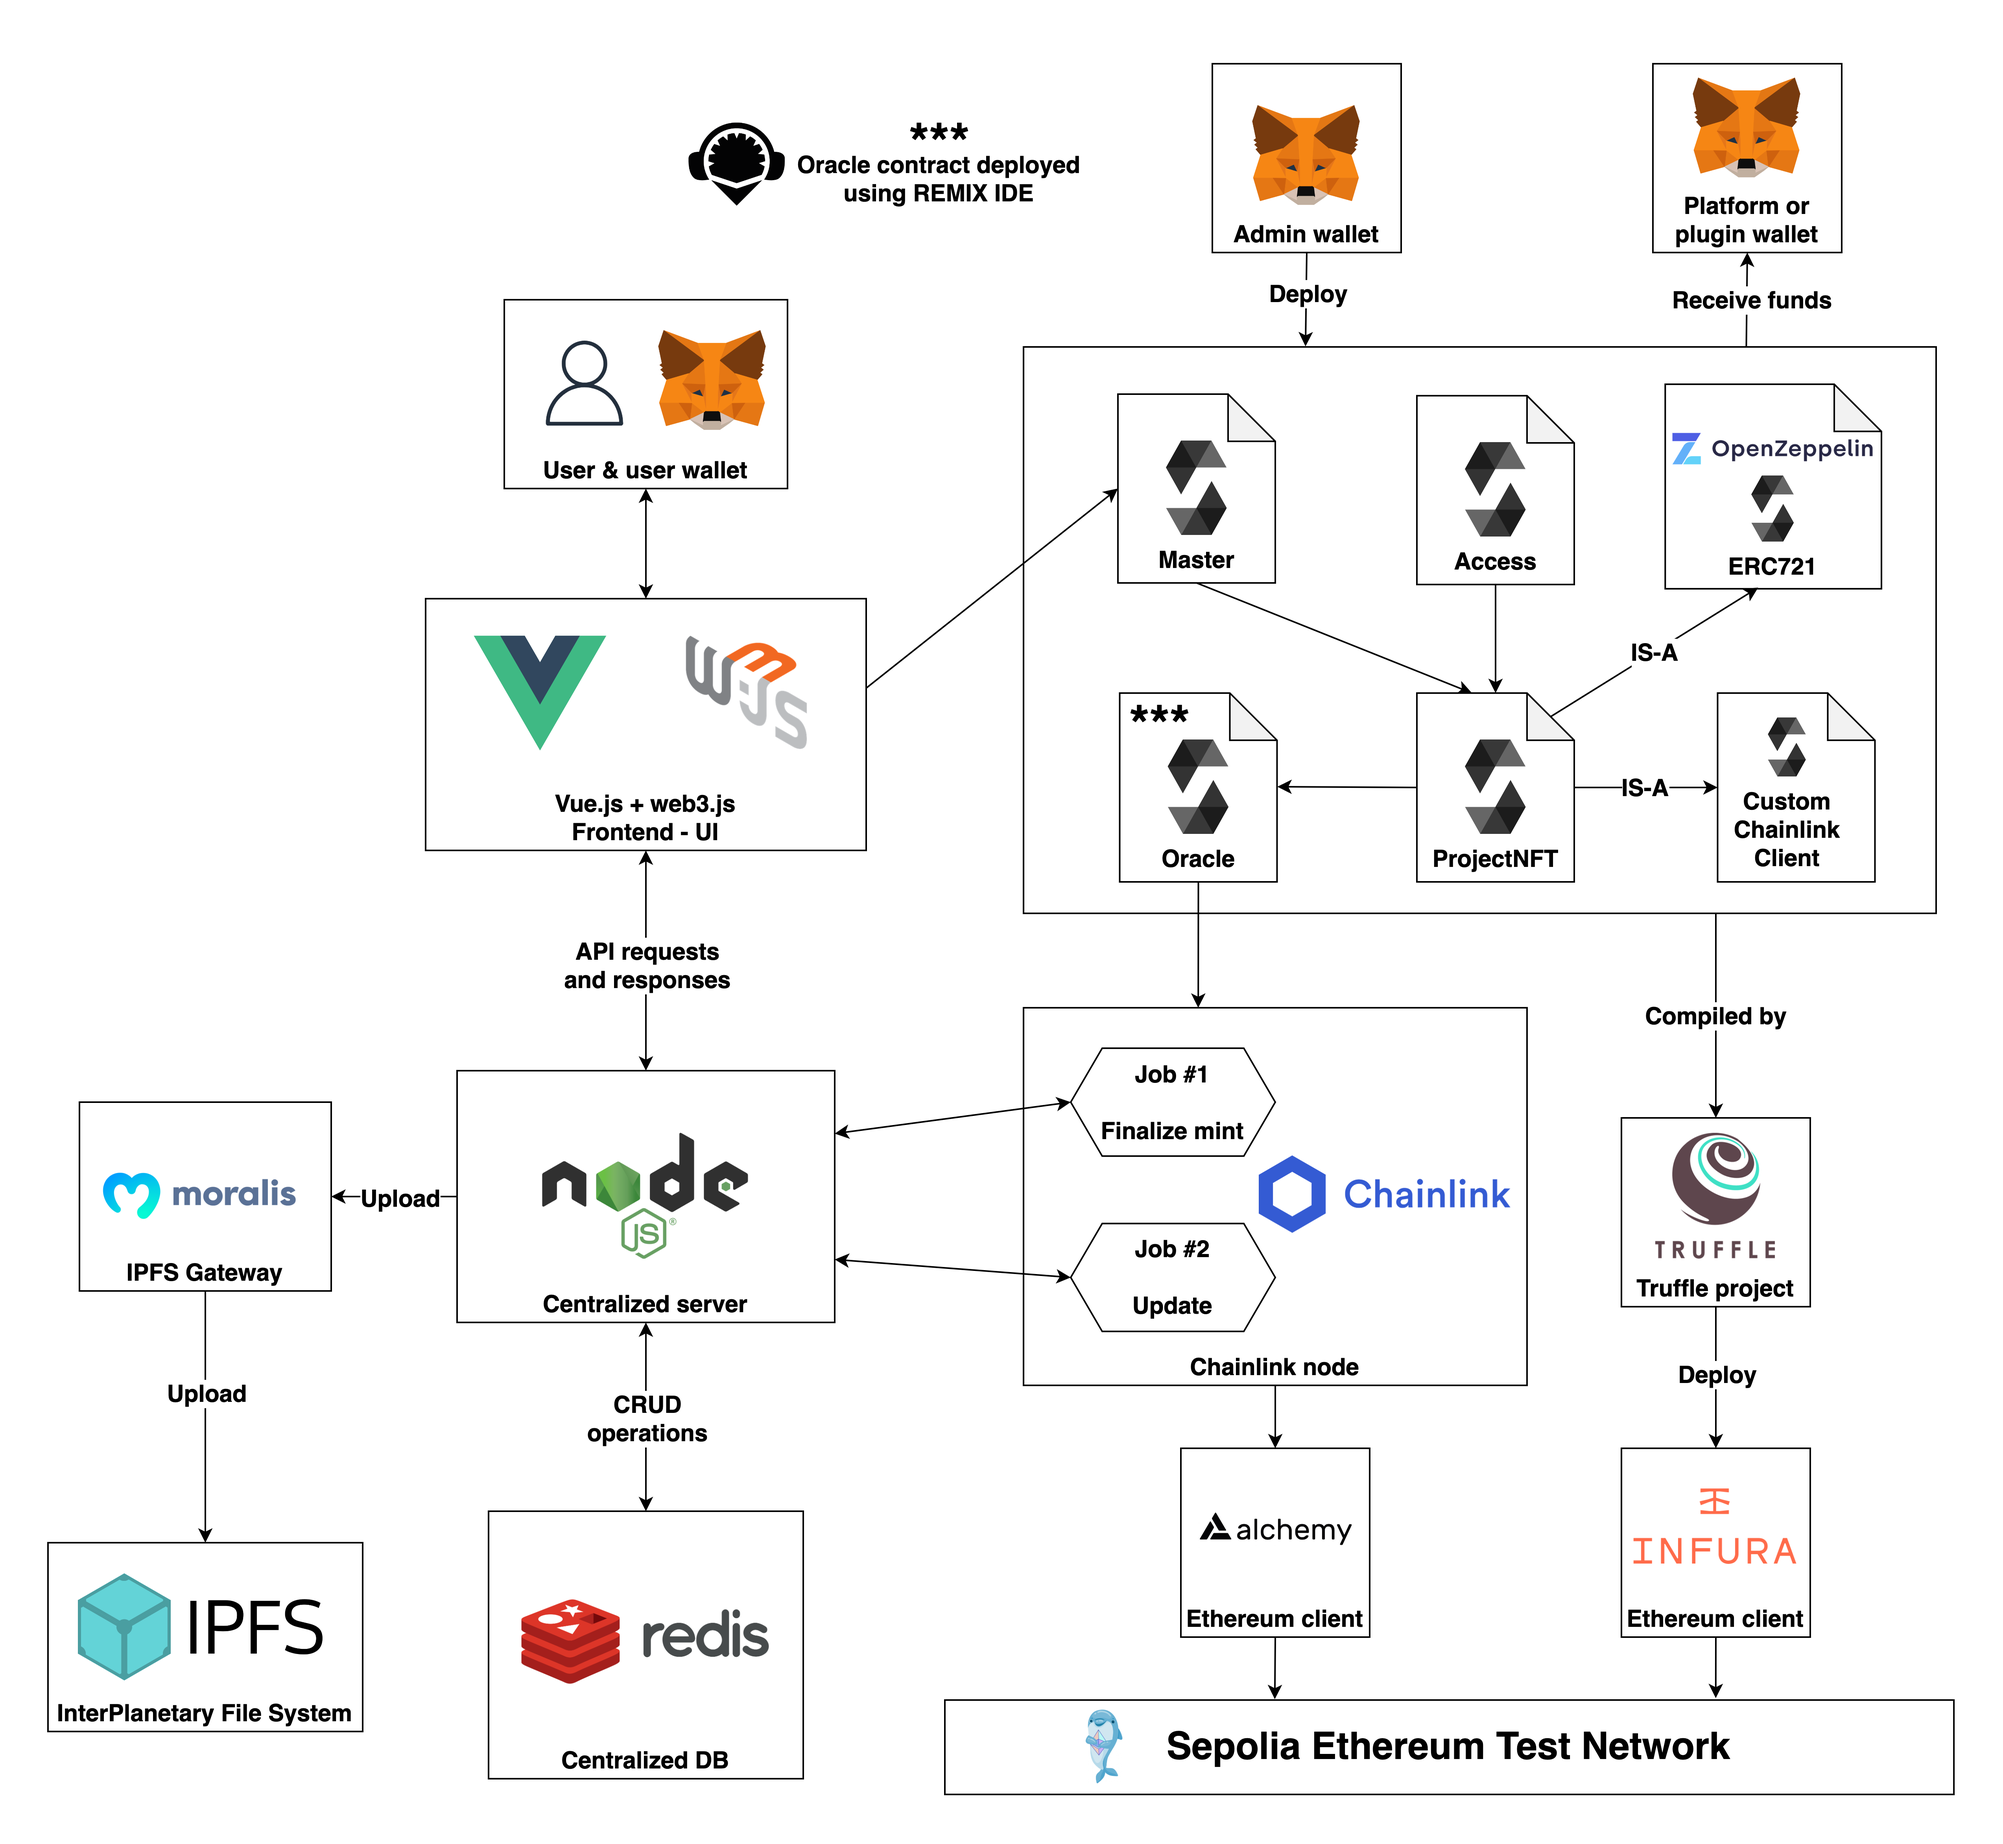
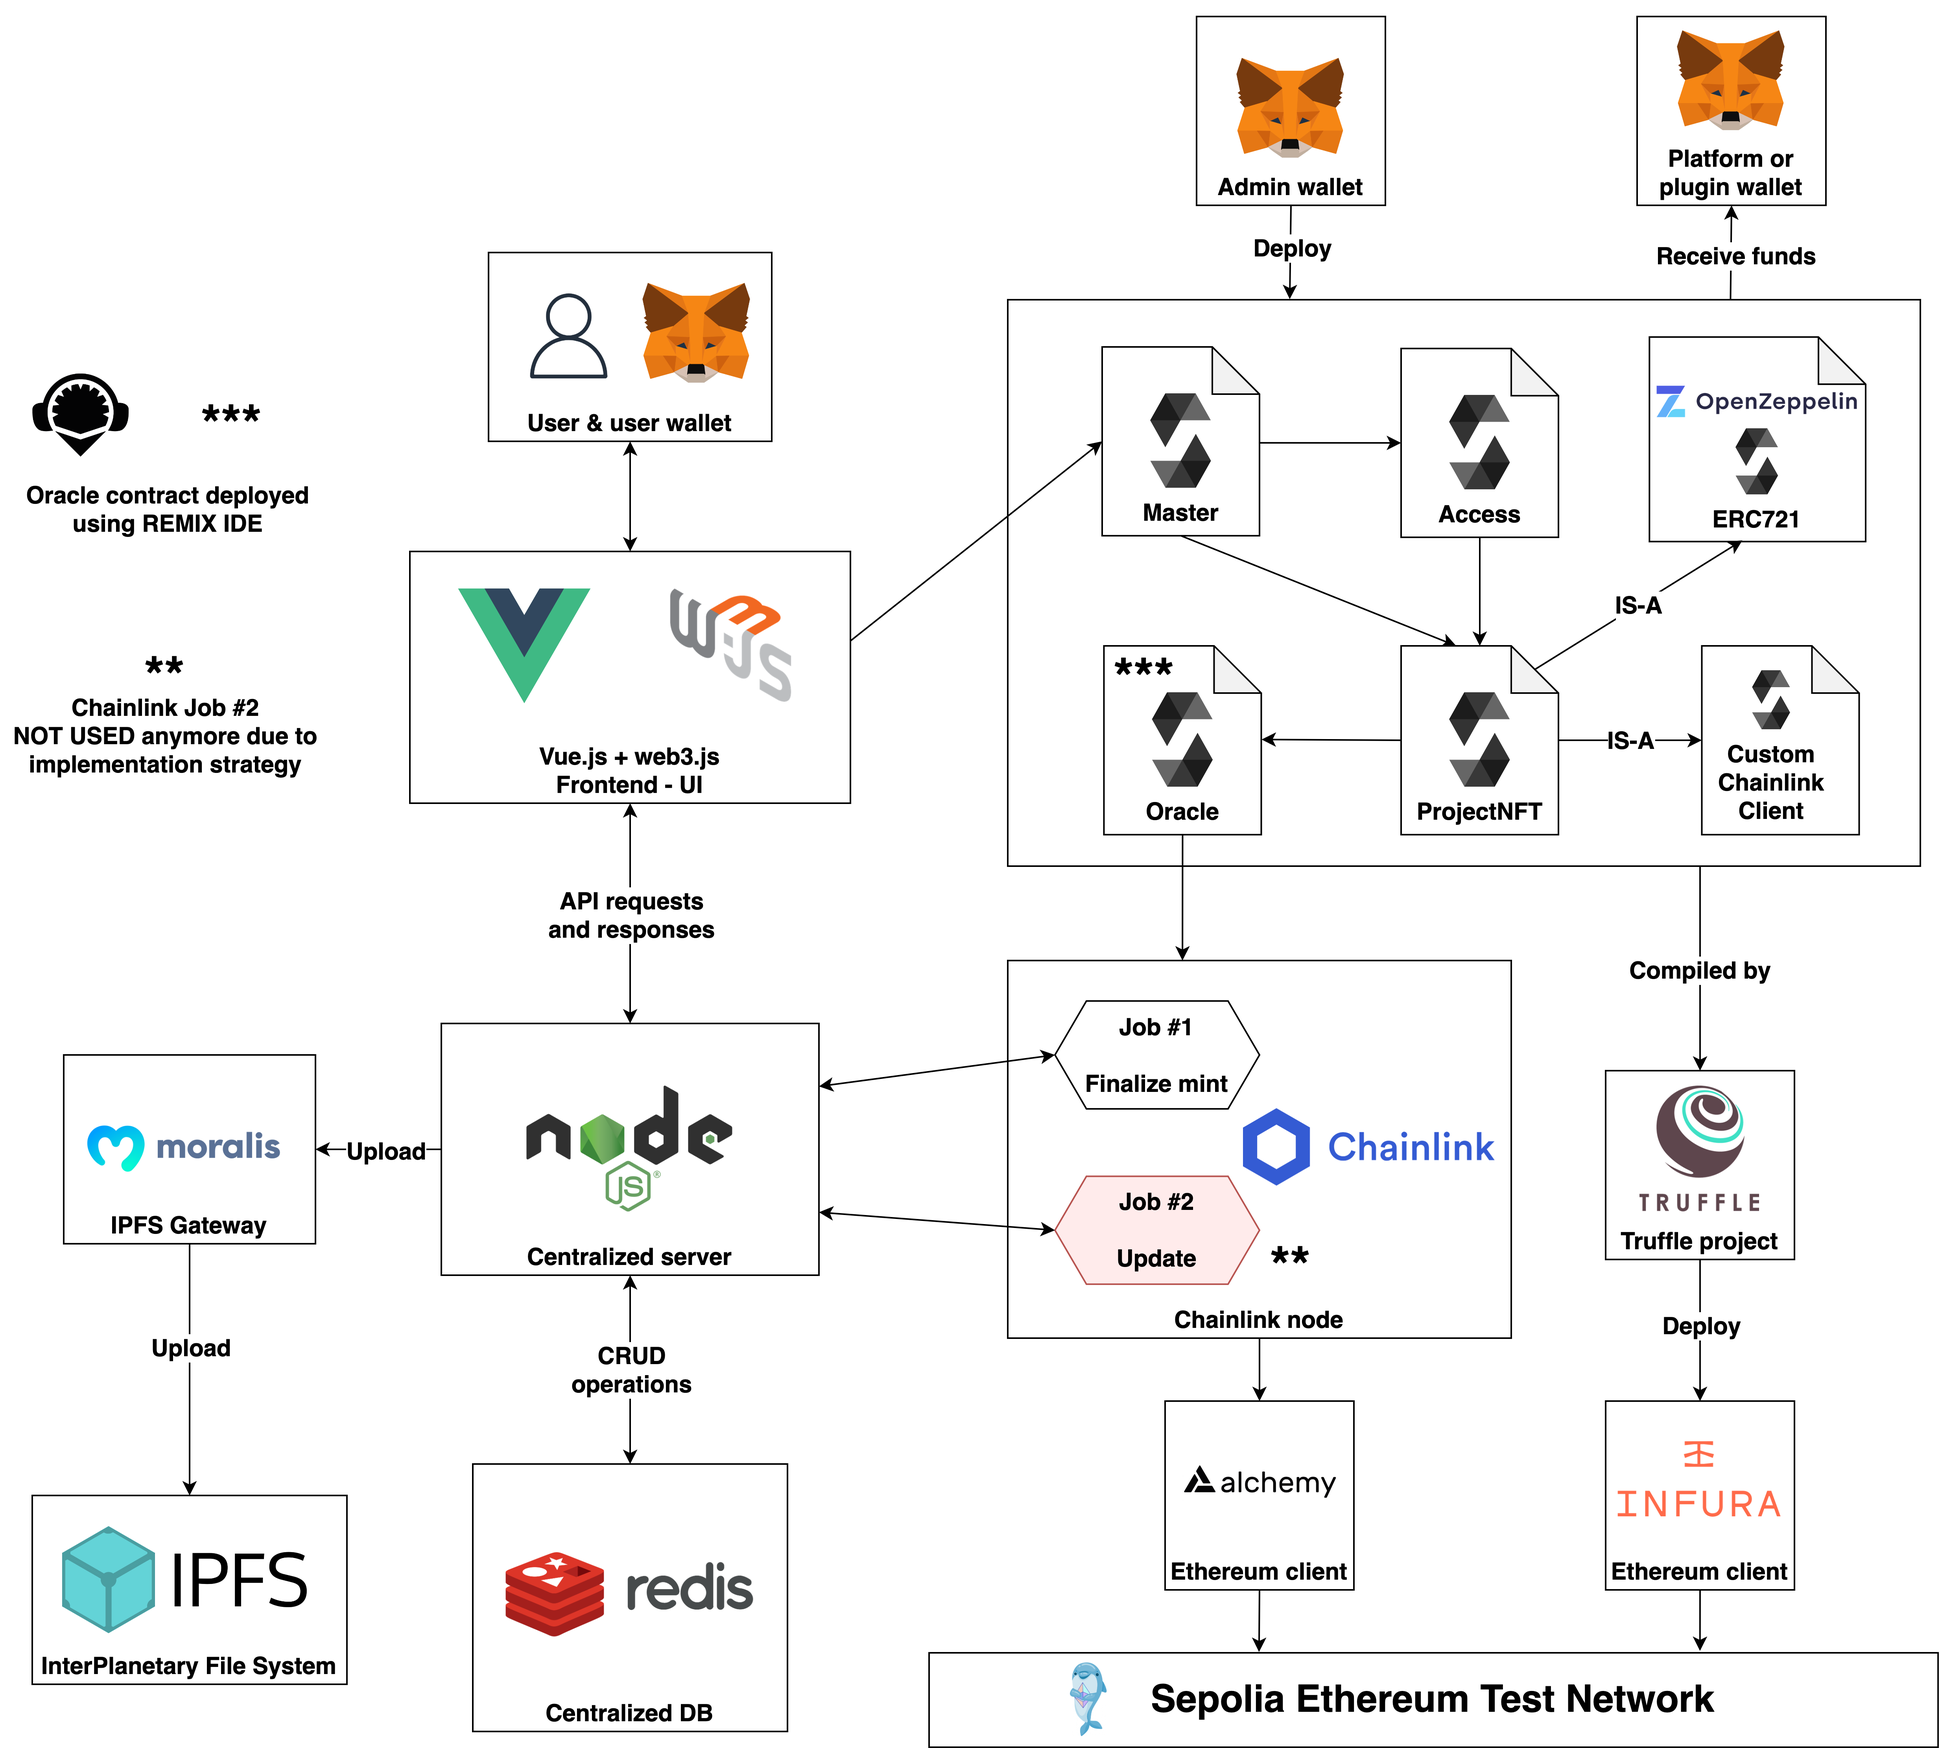
update Chainlink job adding hash into req

diff --git a/frontend/components/InfoHeader.vue b/frontend/components/InfoHeader.vue
@@ -4,7 +4,7 @@
 
 <template>
     <div class="info-header">
-        <img src="@/assets/blockchain.png" height="200" />
+        <img src="@/assets/blockchain.png" height="350" />
         <h2 class="info-header-title">ProjectsChain</h2>
         <p class="info-header-text">
             Protect the intellectual property of your 3D projects and manage royalties using Smart

diff --git a/notes.md b/notes.md
@@ -12,7 +12,7 @@ Our plugin solution needs a centralized backend to work, this is because we need
 Mixed approach:
 This approach combines the benefits of centralized metadata storage with the decentralization and security provided by a smart contract. The metadata is stored on a centralized server, which can be more easily updated and managed, while the NFT creation process is handled by a smart contract, which ensures that the token ID is assigned in a predictable and secure manner.
 
-## About pre checks:
+## OK About pre checks:
 It is generally a good practice to perform internal checks on a centralized backend before sending a minting request on the blockchain. This approach can help to ensure that the minting process is likely to succeed, and can help to avoid wasting gas fees on failed transactions.
 
 By performing pre-checks on the centralized backend, you can verify that all necessary data is available and formatted correctly, and that the minting request meets any additional requirements or constraints that may exist. For example, you may want to check that the user has sufficient balance, that the requested NFT metadata exists and is valid, or that the requested NFT name is not already in use.
@@ -164,6 +164,6 @@ In the frontend, the signature values are passed to the mintToken function of th
 This process ensures that only the backend with the correct private key can sign messages and generate valid signatures, which helps to prevent unauthorized access to the mintToken function of the Solidity contract.
 
 
-# on frontend bugs
+# OK on frontend bugs
 
 switching account on metamask does not work all the time, it is necessary to refresh the page in order to make it work

diff --git a/config/chainlink/chainlink.md b/config/chainlink/chainlink.md
@@ -76,7 +76,7 @@ https://sepoliafaucet.com/ (by alchemy)
 0xe367a0f5E216dE86a90FD9E0d8aea27d6a4956bd
 
 # Job #1 ID
-38d2757024be4f4ba47f80bcd173ca6a
+0f2a6669ba5b48b993301c917d01098c
 
 # Job #2 ID
 de80a02e11e540fea0de2177bb55f717
@@ -93,6 +93,7 @@ de80a02e11e540fea0de2177bb55f717
 ifconfig | grep 'inet ' | grep -v 127.0.0.1 | awk '{print $2}'
 ifconfig | grep 'inet ' | grep -v 127.0.0.1 | awk '{print $2}' | head -1
 192.168.1.238
+192.168.1.5
 
 start the container with --network=host and then you can use localhost instead of the ip address, 
 this should work on linux but not on mac
